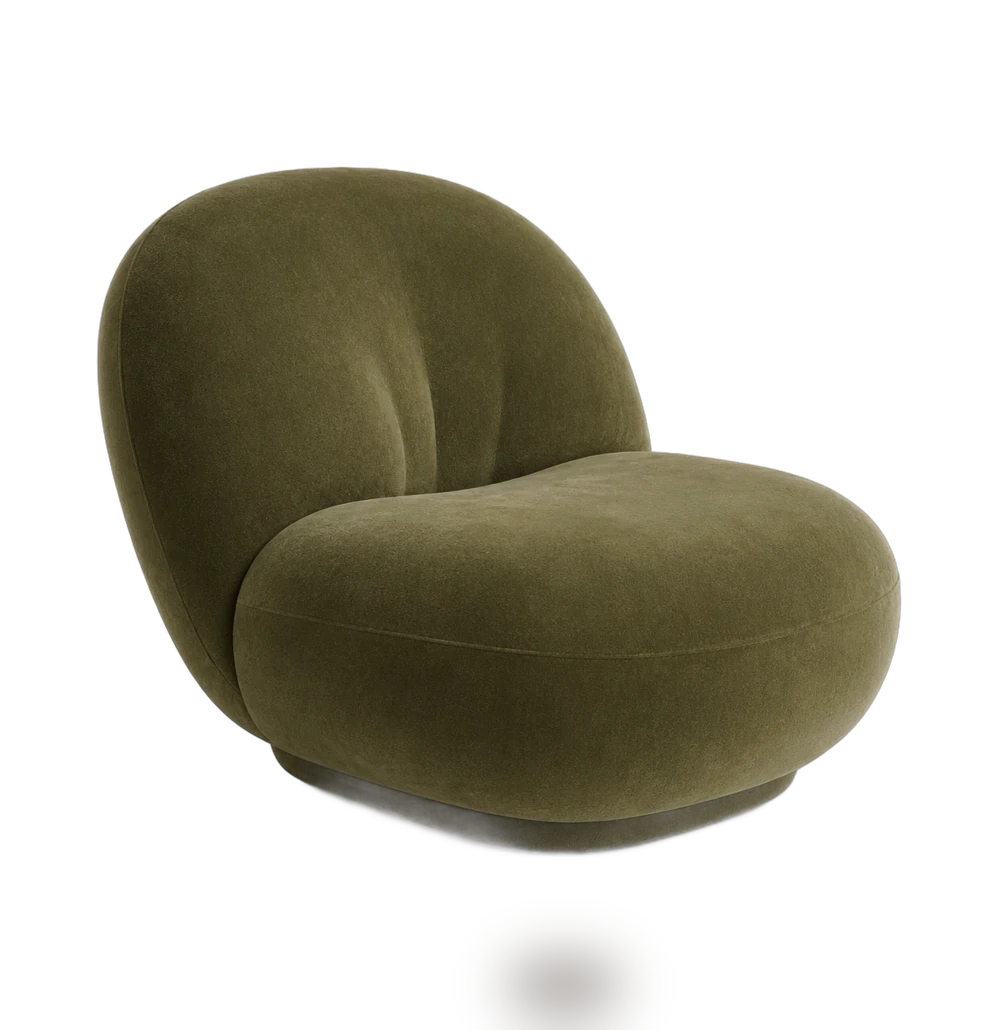
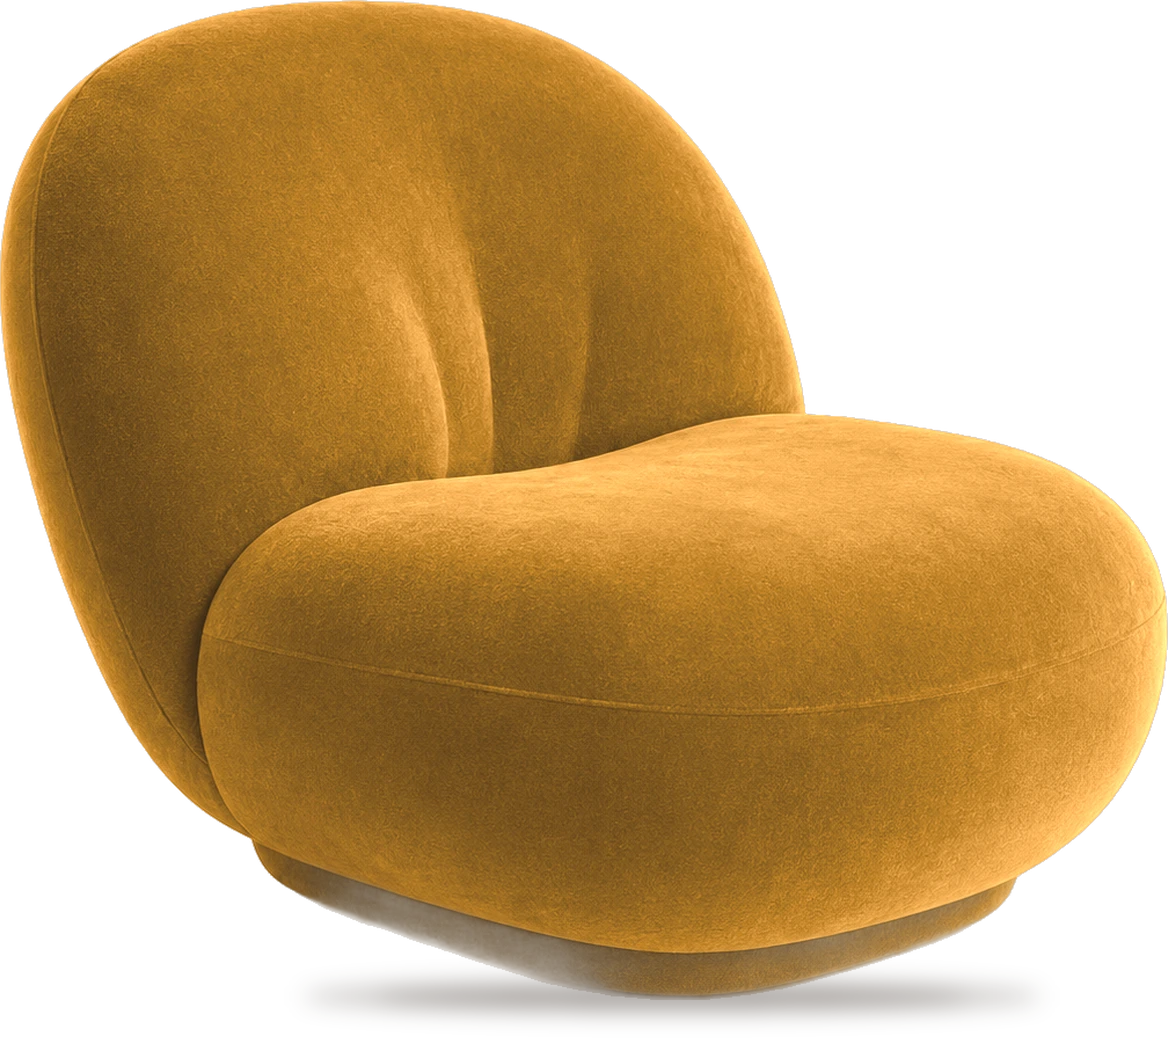
Miniaturas em escala proporcional por grade; Pacha em mostarda; remove foto real da Pacha
Claude-Session: https://claude.ai/code/session_01L1cLrZQiTHUpERuPZurzBn

diff --git a/index.html b/index.html
@@ -110,7 +110,8 @@ nav.main a:hover::after,nav.main a.on::after,.wa-top:hover::after,.chips button:
 @media (max-width:1100px){.grid{grid-template-columns:repeat(3,1fr)}}
 @media (max-width:720px){.grid{grid-template-columns:repeat(2,1fr);gap:36px 14px}}
 .card .ph{aspect-ratio:1/1;background:#fff;display:flex;align-items:center;justify-content:center;padding:10%}
-.card .ph img{max-height:100%;object-fit:contain;transition:transform .45s}
+.card .ph img{max-width:100%;max-height:100%;width:auto;height:auto;object-fit:contain;transition:transform .45s}
+.card .ph img.alt{max-width:none!important;max-height:none!important}
 .card:hover .ph img{transform:scale(1.05)}
 .card .nm{font-weight:400;font-size:15.5px;margin-top:10px;text-transform:lowercase}
 .card .ds{display:none}
@@ -358,7 +359,13 @@ const CORES={
   {nome:"Cinza",hex:"#9B9993",amostra:"",fotos:[]},
   {nome:"Mostarda",hex:"#C6952F",amostra:"",fotos:[]}]
 };
-const FOTOS={"p-sofa-mucuripe":["img/p01b.webp"],"p-poltrona-pacha":["img/p09b.webp"],"p-cadeira-peri":["img/p12b.webp"]};
+const FOTOS={"p-sofa-mucuripe":["img/p01b.webp"],"p-cadeira-peri":["img/p12b.webp"]};
+/* maior medida visível de cada peça (cm), pela numeração da foto: deixa as miniaturas na mesma escala */
+const REAL={1:210,2:200,3:200,4:220,5:200,6:220,7:86,8:85,9:80,10:78,11:89,12:85,13:80,14:75,15:120,16:220,17:220,18:55,19:50,20:55,21:150,22:80,23:100,24:180};
+/* em cada grade, a maior peça ocupa o quadro todo e as outras ficam em proporção a ela */
+function escalar(){const gs=new Set();document.querySelectorAll(".card .ph img[data-r]").forEach(i=>gs.add(i.closest(".card").parentElement));
+ gs.forEach(g=>{const ims=[...g.querySelectorAll(".card .ph img[data-r]")];const mx=Math.max(...ims.map(i=>+i.dataset.r));
+  ims.forEach(i=>{const f=Math.round(Math.max(.5,Math.pow(+i.dataset.r/mx,.6))*100)+"%";i.style.maxWidth=f;i.style.maxHeight=f})})}
 /* peças fora da vitrine até chegar foto boa (remova o nome da lista para voltar) */
 const OCULTAS=[];
 const AMB=[
@@ -384,7 +391,7 @@ const NOMES={
 /* ===================================== */
 const slug=s=>s.normalize("NFD").replace(/[̀-ͯ]/g,"").toLowerCase().replace(/[^a-z0-9]+/g,"-");
 const prods=P.map(([c,n,ds,price,img,v])=>{const cat=CATS.find(x=>x.id==c);const orig=Math.round(price/(1-cat.d)/10)*10;
- return {c,cat,n,full:cat.un+" "+n,ds,price,orig,pct:Math.round(cat.d*100),img:`img/p${String(img).padStart(2,"0")}.webp`,v,id:"p-"+slug(cat.un+" "+n)}});
+ return {c,cat,n,full:cat.un+" "+n,ds,price,orig,pct:Math.round(cat.d*100),img:`img/p${String(img).padStart(2,"0")}.webp`,v,r:REAL[img]||120,id:"p-"+slug(cat.un+" "+n)}});
 const prodsAll=prods.slice();prods.splice(0,prods.length,...prods.filter(p=>!OCULTAS.includes(p.id.slice(2))));
 const CATSV=CATS.filter(c=>prods.some(p=>p.c==c.id));
 if(!prods.some(p=>p.c=="camas")){const qi=AMB.findIndex(a=>a.id=="quarto");if(qi>=0)AMB.splice(qi,1)}
@@ -395,7 +402,7 @@ const juros=()=>SEM_JUROS?" sem juros":"";
 const waLink=t=>`https://wa.me/${WHATSAPP}?text=${encodeURIComponent(t)}`;
 const $=s=>document.querySelector(s);
 
-function card(p,cls){const alt=(FOTOS[p.id]||[])[0];return `<a class="card ${cls||""}" href="#${p.id}"><div class="ph${alt?" hv":""}"><img loading="lazy" src="${p.img}" alt="${p.full}">${alt?`<img class="alt" loading="lazy" src="${alt}" alt="">`:""}</div>
+function card(p,cls){const alt=(FOTOS[p.id]||[])[0];return `<a class="card ${cls||""}" href="#${p.id}"><div class="ph${alt?" hv":""}"><img loading="lazy" src="${p.img}" alt="${p.full}" data-r="${p.r}">${alt?`<img class="alt" loading="lazy" src="${alt}" alt="">`:""}</div>
 <div class="nm">${p.full}</div>${CORES[p.id]?`<div class="dots">${CORES[p.id].map(c=>`<i title="${c.nome}" style="background:${c.amostra?`url(${c.amostra}) center/cover`:c.hex}"></i>`).join("")}<span>${CORES[p.id].length} cores</span></div>`:""}
 <div class="pr"><b>${brl(p.price)}</b><s>${brl(p.orig)}</s><span class="pct">−${p.pct}%</span></div><div class="pay">${PARCELAS}x de ${brl(parc(p.price))}${juros()} · <span class="px">${brl(pix(p.price))} no pix</span></div></a>`}
 
@@ -454,7 +461,7 @@ function route(){const h=location.hash.slice(1)||"inicio";document.title="Sofaze
 window.addEventListener("hashchange",route);setWA();route();
 const io=("IntersectionObserver" in window)?new IntersectionObserver(es=>es.forEach(e=>{if(e.isIntersecting){e.target.classList.add("in");io.unobserve(e.target)}}),{threshold:.12}):null;
 const rv=()=>document.querySelectorAll(".view.on .card,.view.on .amb>a,.view.on .edit,.view.on .quem").forEach(el=>{if(!el.classList.contains("rv")){el.classList.add("rv");io?io.observe(el):el.classList.add("in")}});
-rv();window.addEventListener("hashchange",()=>setTimeout(rv,50));
+rv();escalar();window.addEventListener("hashchange",()=>setTimeout(()=>{rv();escalar()},50));
 </script>
 </body>
 </html>
